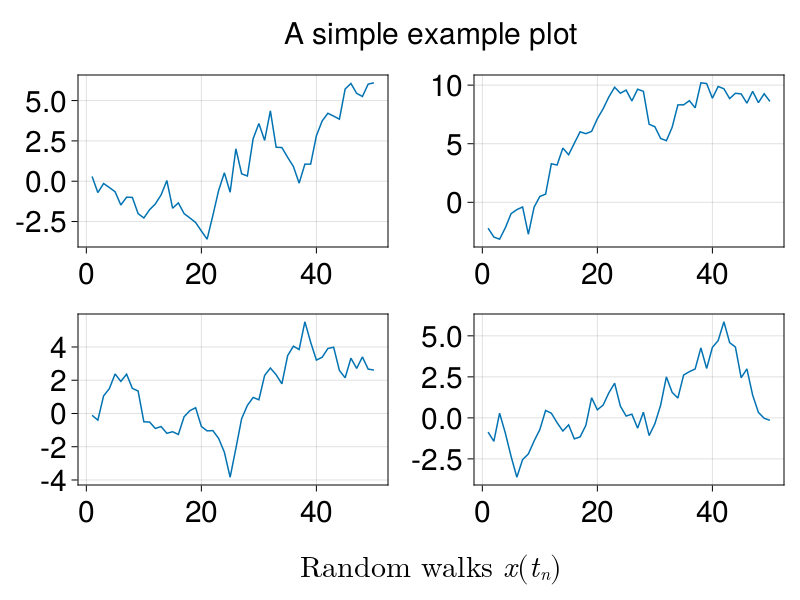
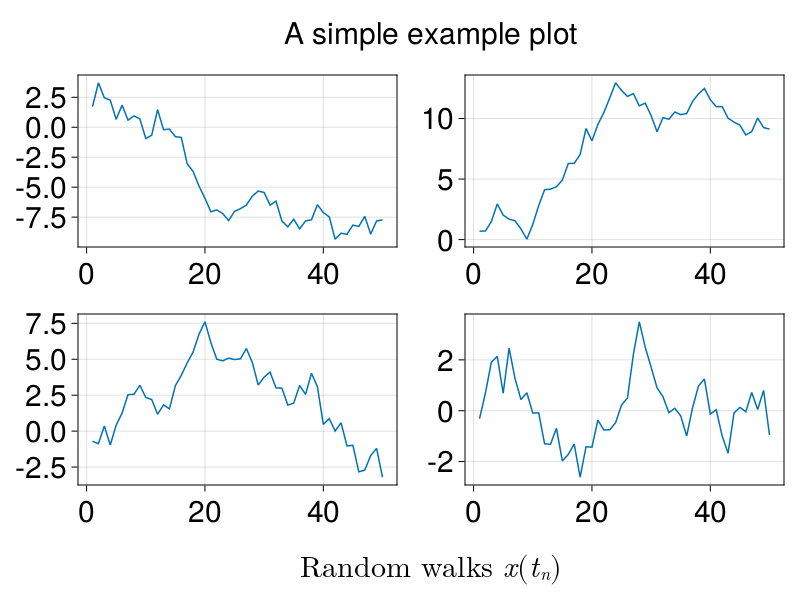
Deploying to gh-pages from  @ 1b72ca3a26d7eeabe0548b6ee3a79de5f5ed4803 🚀

diff --git a/index.html b/index.html
@@ -13,7 +13,9 @@
 
 <!-- Content appended here -->
 <div class="franklin-content"><h1 id="theming"><a href="#theming" class="header-anchor">Theming</a></h1>
-<pre><code class="language-julia">x &#61; -2pi:0.1:2pi
+<pre><code class="language-julia">using CairoMakie
+
+x &#61; -2pi:0.1:2pi
 approx &#61; fill&#40;0.0, length&#40;x&#41;&#41;
 cmap &#61; &#91;:gold, :deepskyblue3, :orangered, &quot;#e82051&quot;&#93;
 with_theme&#40;palette &#61; &#40;; patchcolor &#61; cgrad&#40;cmap, alpha&#61;0.45&#41;&#41;&#41; do
@@ -33,8 +35,8 @@ with_theme&#40;palette &#61; &#40;; patchcolor &#61; cgrad&#40;cmap, alpha&#61;0
     fig
 end</code></pre></p>
 <p>
-<a id="example_11351049267438190429">
- <img src="/ftest-makie/assets/index/code/output/example_11351049267438190429.png" alt=""> 
+<a id="example_119525871479737414">
+ <img src="/ftest-makie/assets/index/code/output/example_119525871479737414.png" alt=""> 
 </a>
 
 <p>Makie allows you to change almost every visual aspect of your plots via attributes. You can set attributes whenever you create an object, or you define a general style that is then used as the default by all following objects.</p>
@@ -45,9 +47,7 @@ with_theme</code></pre>
 <h2 id="set_theme"><a href="#set_theme" class="header-anchor">set_theme&#33;</a></h2>
 <p>You can call <code>set_theme&#33;&#40;theme; kwargs...&#41;</code> to change the current default theme to <code>theme</code> and override or add attributes given by <code>kwargs</code>. You can also reset your changes by calling <code>set_theme&#33;&#40;&#41;</code> without arguments.</p>
 <p>Let&#39;s create a plot with the default theme:</p>
-<pre><code class="language-julia">using CairoMakie
-
-function example_plot&#40;&#41;
+<pre><code class="language-julia">function example_plot&#40;&#41;
     f &#61; Figure&#40;&#41;
     for i in 1:2, j in 1:2
         lines&#40;f&#91;i, j&#93;, cumsum&#40;randn&#40;50&#41;&#41;&#41;
@@ -59,8 +59,8 @@ end
 
 example_plot&#40;&#41;</code></pre></p>
 <p>
-<a id="example_15436313006411093498">
- <img src="/ftest-makie/assets/index/code/output/example_15436313006411093498.png" alt=""> 
+<a id="example_10382542536148608780">
+ <img src="/ftest-makie/assets/index/code/output/example_10382542536148608780.png" alt=""> 
 </a>
 
 <p>Now we define a theme which changes the default fontsize, activate it, and plot.</p>
@@ -211,10 +211,7 @@ end</code></pre></p>
 <h3 id="manual_cycling_using_cycled"><a href="#manual_cycling_using_cycled" class="header-anchor">Manual cycling using <code>Cycled</code></a></h3>
 <p>If you want to give a plot&#39;s attribute a specific value from the respective cycler, you can use the <code>Cycled</code> object. The index <code>i</code> passed to <code>Cycled</code> is used directly to look up a value in the cycler that belongs to the attribute, and errors if no such cycler is defined. For example, to access the third color in a cycler, instead of plotting three plots to advance the cycler, you can use <code>color &#61; Cycled&#40;3&#41;</code>.</p>
 <p>The cycler&#39;s internal counter is not advanced when using <code>Cycled</code> for any attribute, and only attributes with <code>Cycled</code> access the cycled values, all other usually cycled attributes fall back to their non-cycled defaults.</p>
-<pre><code class="language-julia">using CairoMakie
-
-
-f &#61; Figure&#40;&#41;
+<pre><code class="language-julia">f &#61; Figure&#40;&#41;
 
 Axis&#40;f&#91;1, 1&#93;&#41;
 
@@ -230,17 +227,13 @@ lines&#33;&#40;0..10, x -&gt; sin&#40;x&#41; - 7, color &#61; Cycled&#40;1&#41;&
 
 f</code></pre></p>
 <p>
-<a id="example_13696346009214996682">
- <img src="/ftest-makie/assets/index/code/output/example_13696346009214996682.png" alt=""> 
+<a id="example_4120872256216269751">
+ <img src="/ftest-makie/assets/index/code/output/example_4120872256216269751.png" alt=""> 
 </a>
 
 <h3 id="palettes"><a href="#palettes" class="header-anchor">Palettes</a></h3>
 <p>The attributes specified in the cycle are looked up in the axis&#39; palette. A single <code>:color</code> is both plot attribute as well as palette attribute, while <code>:color &#61;&gt; :patchcolor</code> means that <code>plot.color</code> should be set to <code>palette.patchcolor</code>. Here&#39;s an example that shows how density plots react to different palette options:</p>
-<pre><code class="language-julia">using CairoMakie
-
-
-
-f &#61; Figure&#40;resolution &#61; &#40;800, 800&#41;&#41;
+<pre><code class="language-julia">f &#61; Figure&#40;resolution &#61; &#40;800, 800&#41;&#41;
 
 Axis&#40;f&#91;1, 1&#93;, title &#61; &quot;Default cycle palette&quot;&#41;
 
@@ -267,15 +260,15 @@ end
 
 f</code></pre></p>
 <p>
-<a id="example_16429372083896061889">
- <img src="/ftest-makie/assets/index/code/output/example_16429372083896061889.png" alt=""> 
+<a id="example_13163899370740613802">
+ <img src="/ftest-makie/assets/index/code/output/example_13163899370740613802.png" alt=""> 
 </a>
 
 <p>You can also theme global palettes via <code>set_theme&#33;&#40;palette &#61; &#40;color &#61; my_colors, marker &#61; my_markers&#41;&#41;</code> for example.</p>
 <h2 id="special_attributes"><a href="#special_attributes" class="header-anchor">Special attributes</a></h2>
 <p>You can use the keys <code>rowgap</code> and <code>colgap</code> to change the default grid layout gaps.</p>
 <div class="page-foot">
-    <a href="http://creativecommons.org/licenses/by-sa/4.0/">CC BY-SA 4.0</a> . Last modified: August 24, 2023.
+    <a href="http://creativecommons.org/licenses/by-sa/4.0/">CC BY-SA 4.0</a> . Last modified: August 25, 2023.
     Website built with <a href="https://github.com/tlienart/Franklin.jl">Franklin.jl</a> and the <a href="https://julialang.org">Julia programming language</a>.
 </div>
 </div><!-- CONTENT ENDS HERE -->

diff --git a/bar/index.html b/bar/index.html
@@ -16,7 +16,7 @@
 
 L&quot;&#36;\alpha&#36;&quot;</code></pre><pre><code class="plaintext code-output">L"$\alpha$"</code></pre>
 <div class="page-foot">
-    <a href="http://creativecommons.org/licenses/by-sa/4.0/">CC BY-SA 4.0</a> . Last modified: August 24, 2023.
+    <a href="http://creativecommons.org/licenses/by-sa/4.0/">CC BY-SA 4.0</a> . Last modified: August 25, 2023.
     Website built with <a href="https://github.com/tlienart/Franklin.jl">Franklin.jl</a> and the <a href="https://julialang.org">Julia programming language</a>.
 </div>
 </div><!-- CONTENT ENDS HERE -->

diff --git a/foo/index.html b/foo/index.html
@@ -16,7 +16,7 @@
 
 L&quot;&#36;\alpha&#36;&quot;</code></pre><pre><code class="plaintext code-output">L"$\alpha$"</code></pre>
 <div class="page-foot">
-    <a href="http://creativecommons.org/licenses/by-sa/4.0/">CC BY-SA 4.0</a> . Last modified: August 24, 2023.
+    <a href="http://creativecommons.org/licenses/by-sa/4.0/">CC BY-SA 4.0</a> . Last modified: August 25, 2023.
     Website built with <a href="https://github.com/tlienart/Franklin.jl">Franklin.jl</a> and the <a href="https://julialang.org">Julia programming language</a>.
 </div>
 </div><!-- CONTENT ENDS HERE -->
